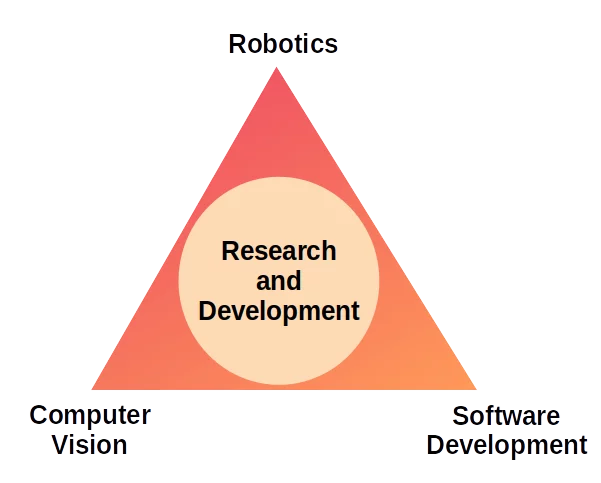
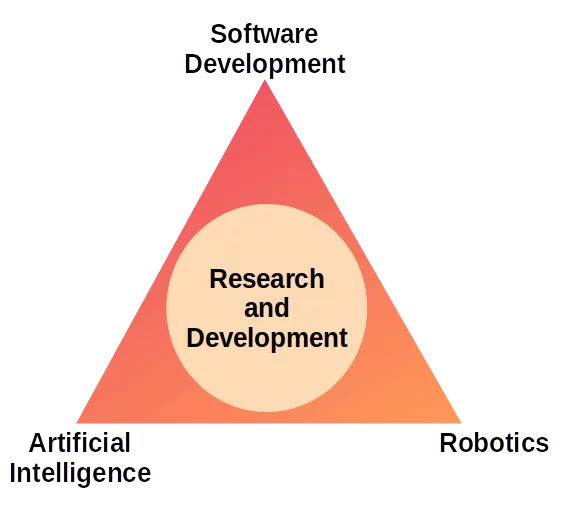
Updating the website info

diff --git a/_site/index.html b/_site/index.html
@@ -20,10 +20,10 @@
   
 </title>
 <meta name="author" content="RnDi Solutions">
-<meta name="description" content="Your one-stop consulting for R&amp;D, robotics, computer vision, and software development
+<meta name="description" content="Your one-stop consulting for R&amp;D, software development, artificial intelligence, and robotics.
 ">
 
-  <meta name="keywords" content="R&amp;D, Research and development, Robotics, Computer Vision, Software Development">
+  <meta name="keywords" content="R&amp;D, Research and development, Software Development, Artificial Intelligence, Robotics">
 
 
 
@@ -214,14 +214,14 @@
 <div style="text-align:center">
 <br>
 
-<h3>Continue Creativity: <br>Your one-stop consulting for R&amp;D in <br>robotics, computer vision, and software development</h3>
+<h3>Continue Creativity: <br>Your one-stop consulting for R&amp;D in <br>software development, artificial intelligence, and robotics</h3>
 <br>
 <p>Do you have a groundbreaking idea but need help bringing it to life?</p>
 
 <button class="button-62" role="button" onclick="location.href='https://calendly.com/nimamasoumi1/15min'">Get a free estimate</button>
 <br>
 <br style="line-height:5">
-<p>We specialize in helping individuals and businesses turn their innovative concepts into reality. Whether you require expertise in <b>research and development (R&amp;D)</b>, <b>robotics</b>, <b>computer vision</b>, or <b>software development</b>, we offer a comprehensive suite of services to bridge the gap between vision and execution.</p>
+<p>We specialize in helping individuals and businesses turn their innovative concepts into reality. Whether you require expertise in <b>research and development (R&amp;D)</b>, <b>software development</b>, <b>artificial intelligence</b>, or <b>robotics</b>, we offer a comprehensive suite of services to bridge the gap between vision and execution.</p>
 
 <img src="/assets/img/tri.png" style="width:71%;height:71%;">
 <br>

diff --git a/_site/about/index.html b/_site/about/index.html
@@ -22,10 +22,10 @@
   
 </title>
 <meta name="author" content="RnDi Solutions">
-<meta name="description" content="Your one-stop consulting for R&amp;D, robotics, computer vision, and software development
+<meta name="description" content="Your one-stop consulting for R&amp;D, software development, artificial intelligence, and robotics.
 ">
 
-  <meta name="keywords" content="R&amp;D, Research and development, Robotics, Computer Vision, Software Development">
+  <meta name="keywords" content="R&amp;D, Research and development, Software Development, Artificial Intelligence, Robotics">
 
 
 

diff --git a/_site/404.html b/_site/404.html
@@ -27,7 +27,7 @@
 <meta name="author" content="RnDi Solutions">
 <meta name="description" content="Looks like there has been a mistake. Nothing exists here.">
 
-  <meta name="keywords" content="R&amp;D, Research and development, Robotics, Computer Vision, Software Development">
+  <meta name="keywords" content="R&amp;D, Research and development, Software Development, Artificial Intelligence, Robotics">
 
 
 

diff --git a/_pages/about.md b/_pages/about.md
@@ -56,14 +56,14 @@ social: true # includes social icons at the bottom of the page
 <div style="text-align:center">
 <br>
 
-<h3>Continue Creativity: <br>Your one-stop consulting for R&D in <br>robotics, computer vision, and software development</h3>
+<h3>Continue Creativity: <br>Your one-stop consulting for R&D in <br>software development, artificial intelligence, and robotics</h3>
 <br>
 <p>Do you have a groundbreaking idea but need help bringing it to life?</p>
 
 <button class="button-62" role="button" onclick="location.href='https://calendly.com/nimamasoumi1/15min'">Get a free estimate</button>
 <br>
 <br style="line-height:5">
-<p>We specialize in helping individuals and businesses turn their innovative concepts into reality. Whether you require expertise in <b>research and development (R&D)</b>, <b>robotics</b>, <b>computer vision</b>, or <b>software development</b>, we offer a comprehensive suite of services to bridge the gap between vision and execution.</p>
+<p>We specialize in helping individuals and businesses turn their innovative concepts into reality. Whether you require expertise in <b>research and development (R&D)</b>, <b>software development</b>, <b>artificial intelligence</b>, or <b>robotics</b>, we offer a comprehensive suite of services to bridge the gap between vision and execution.</p>
 
 <img src="/assets/img/tri.png" style="width:71%;height:71%;">
 <br>
